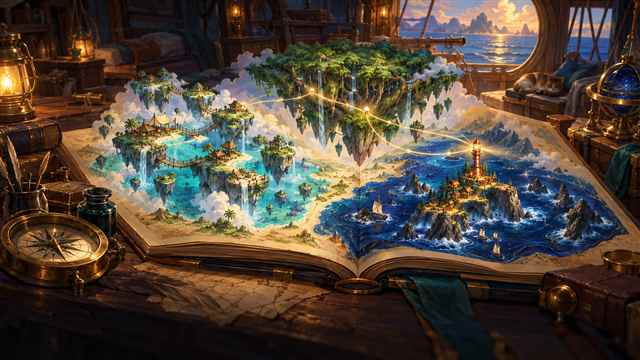
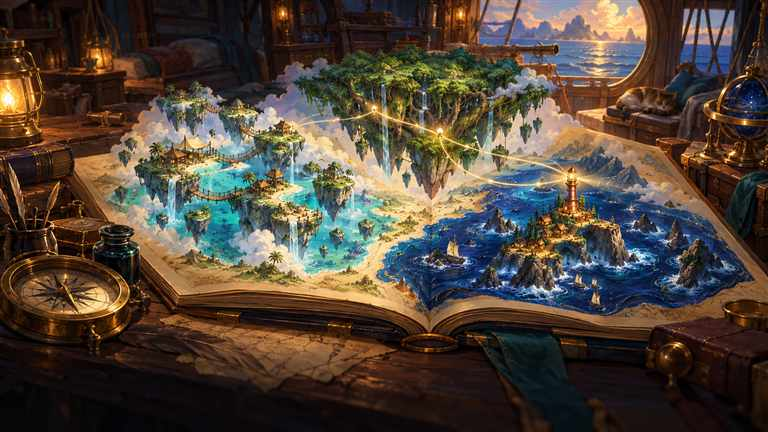
fix: tune atlas artwork and location visuals

diff --git a/src/style.css b/src/style.css
@@ -3,7 +3,7 @@
 *{box-sizing:border-box}html,body{margin:0;min-height:100%;}body{min-height:100vh;background:#173332;color:#f6ecd5}button{font:inherit;color:inherit}button:focus-visible,a:focus-visible{outline:3px solid #ffe28a;outline-offset:3px}.hidden{display:none!important}.screen{min-height:100vh}.overline{font-size:10px;line-height:1.4;letter-spacing:.2em;font-weight:800;color:#dcbd76;margin:0;text-transform:uppercase}.mobile-break{display:none}
 .brand{display:flex;align-items:center;gap:12px;color:inherit;text-decoration:none}.brand-seal{display:grid;place-items:center;width:44px;height:44px;border:1px solid #d8b765;border-radius:50%;box-shadow:inset 0 0 0 4px #d8b76535;color:#f2d88d;font-size:24px;background:#153e3a99}.brand-seal.tiny{width:32px;height:32px;font-size:16px;flex:none}.brand small,.match-title small{display:block;font-size:8px;letter-spacing:.17em;color:#d7ba72;font-weight:800;margin-bottom:4px}.brand strong{display:block;font:20px/1.02 'Marcellus',Georgia,serif;letter-spacing:.025em}.soft-button,.tiny-action{background:#1d413ecc;border:1px solid #e9d8b170;border-radius:5px;padding:9px 14px;color:#fbefd8;font-size:11px;font-weight:700;letter-spacing:.04em;cursor:pointer;box-shadow:0 2px 7px #10201b70}.soft-button:hover,.tiny-action:hover{background:#37675a;border-color:#f2d47e}.home-screen{display:flex;flex-direction:column;min-height:100vh;padding:0 clamp(20px,5vw,78px);background:linear-gradient(90deg,#102926e8 0%,#143832b8 43%,#1438327a 100%),linear-gradient(180deg,#0b1c1961,#0b1c19cc),url('../assets/atlas-board-web.jpg') center/cover fixed}.home-header{height:76px;display:flex;align-items:center;justify-content:space-between;border-bottom:1px solid #e7ce8540}.home-header-actions{display:flex;gap:10px}.home-layout{width:min(1280px,100%);margin:auto;display:grid;grid-template-columns:minmax(290px,.72fr) minmax(600px,1.28fr);gap:clamp(28px,5vw,84px);align-items:center;padding:36px 0 28px;flex:1}.welcome-panel{max-width:425px;padding:0 4px}.welcome-panel h1{font:clamp(48px,6.2vw,78px)/.99 'Marcellus',Georgia,serif;margin:19px 0 19px;text-shadow:0 5px 25px #102520a6;letter-spacing:-.025em}.welcome-panel h1 em{font-weight:400;color:#f0c873}.welcome-copy{font-size:14px;line-height:1.8;color:#f1e7d1c9;max-width:410px}.welcome-actions{display:flex;align-items:center;gap:17px;flex-wrap:wrap;margin:27px 0 37px}.gold-button{border:1px solid #ffe3a1;border-radius:5px;color:#362719;background:linear-gradient(180deg,#f6d789,#d99c4b);box-shadow:0 5px 0 #7d4e28,0 11px 24px #081c17a8;padding:14px 18px;font-size:12px;font-weight:800;cursor:pointer;text-transform:uppercase;letter-spacing:.055em}.gold-button span{margin-left:17px;font-size:16px}.gold-button:hover{filter:brightness(1.08);transform:translateY(-1px)}.gold-button:disabled{opacity:.5;cursor:not-allowed;filter:grayscale(.3);transform:none}.text-button{border:0;background:none;color:#f1dcad;font-size:11px;font-weight:700;cursor:pointer;padding:7px 0}.text-button span{color:#f4c76e;margin-left:4px}.features{display:flex;align-items:center;gap:14px;color:#e7ddc4ad;font-size:9px;letter-spacing:.08em;text-transform:uppercase}.features b{color:#f2d481;font-size:15px;letter-spacing:0;margin-right:4px}.features i{width:1px;height:19px;background:#e9d6a344}.faction-picker{padding:20px;border:1px solid #efdbab78;border-radius:11px;background:linear-gradient(150deg,#152a29d9,#293a30dd);box-shadow:0 24px 70px #0a1716a8;position:relative}.faction-picker:before,.faction-picker:after{content:'✦';position:absolute;color:#f2ce7c;opacity:.7}.faction-picker:before{top:9px;left:10px}.faction-picker:after{right:10px;bottom:9px}.section-heading{display:flex;justify-content:space-between;align-items:end;margin:1px 7px 15px}.section-heading h2{font:21px 'Marcellus',Georgia,serif;margin:4px 0 0}.counter{font-size:9px;color:#d8bd82;letter-spacing:.13em}.faction-grid{display:grid;grid-template-columns:repeat(4,minmax(0,1fr));gap:10px}.faction-card{--faction:#55b5a7;--accent:#f2c86b;padding:0;position:relative;overflow:hidden;min-width:0;min-height:190px;border:1px solid #d6c29391;border-radius:6px;background:#293732;cursor:pointer;text-align:left;transition:transform .18s,border-color .18s,box-shadow .18s}.faction-card:hover{transform:translateY(-4px);border-color:var(--accent);box-shadow:0 9px 20px #0c1916a8}.faction-card.selected{border:2px solid var(--accent);box-shadow:0 0 0 2px #f3d37b4f,0 10px 24px #101a19ab;transform:translateY(-3px)}.faction-card img{width:100%;height:113px;display:block;object-fit:cover;object-position:center 32%;filter:saturate(.87)}.faction-card:after{content:'';position:absolute;inset:63px 0 auto;height:52px;background:linear-gradient(transparent,#1e2b2b)}.faction-card-copy{position:relative;padding:7px 9px 11px;background:linear-gradient(180deg,#202d2b,#172320)}.faction-card-copy h3{font:13px/1.12 'Marcellus',Georgia,serif;margin:0 0 4px;min-height:28px;color:#fff2d8}.faction-card-copy p{font-size:9px;line-height:1.35;color:#e2d6bdad;margin:0;min-height:25px}.faction-gem{position:absolute;top:8px;right:8px;width:25px;height:25px;border-radius:50%;display:grid;place-items:center;background:var(--faction);border:1px solid #fff3a7;color:#fff8e9;font-size:14px;text-shadow:0 1px 3px #28332d}.pick-footer{margin:14px 5px 0;padding-top:11px;border-top:1px solid #e9d6a340;display:flex;justify-content:space-between;gap:8px;align-items:center;min-height:31px;color:#eee0c19e;font-size:10px}.ready-mark{color:#e5c56e;font-size:8px;letter-spacing:.15em;font-weight:800;white-space:nowrap}.home-footer{min-height:41px;border-top:1px solid #e7ce8535;display:flex;align-items:center;justify-content:space-between;gap:12px;color:#f1e3c29a;font-size:8px;letter-spacing:.14em;text-transform:uppercase}
 /* duel */
-.game-screen{height:100vh;min-height:680px;overflow:hidden;background:radial-gradient(ellipse at center,#314335,#182925)}.game-header{height:51px;padding:0 clamp(12px,3vw,42px);display:flex;align-items:center;gap:15px;background:linear-gradient(90deg,#17312a,#274b3f,#1a322b);border-bottom:1px solid #edcc786b;box-shadow:0 2px 14px #0c1710a8;position:relative;z-index:3}.home-button{width:31px;height:31px;border:1px solid #e8d19a70;background:#153d35;border-radius:50%;color:#f5d685;font-size:19px;cursor:pointer}.match-title{display:flex;align-items:center;gap:8px}.match-title small{font-size:7px;margin:0 0 2px}.match-title strong{font-size:9px;letter-spacing:.15em;color:#f4ebd6}.turn-ribbon{margin-left:auto;margin-right:2px;background:#ead9b7;color:#374039;border:2px solid #c8944f;padding:6px 14px;border-radius:4px;font-size:9px;font-weight:900;letter-spacing:.1em;box-shadow:0 2px 8px #101c18}.game-header .soft-button{padding:7px 11px;font-size:9px}.game-layout{max-width:1600px;margin:auto;height:calc(100vh - 51px);min-height:629px;display:grid;grid-template-rows:75px minmax(300px,1fr) 76px 181px 28px;gap:0;padding:0 clamp(10px,2vw,27px);position:relative}.opponent-strip,.player-controls{display:flex;align-items:center;gap:18px;padding:7px 13px;background:linear-gradient(90deg,#142822e8,#254b3bcf,#162820e8);border-left:1px solid #dbc88878;border-right:1px solid #dbc88878;position:relative;z-index:2}.opponent-strip{border-bottom:1px solid #d5c28675;border-radius:0 0 11px 11px;box-shadow:0 7px 18px #0b17156e}.player-controls{border-top:1px solid #e3cb8a7a;border-radius:11px 11px 0 0;box-shadow:0 -6px 18px #0b17156e}.hero-side{display:flex;align-items:center;gap:10px;min-width:0}.hero-portrait-wrap{width:53px;height:53px;border-radius:50%;border:2px solid #e8cc7d;box-shadow:0 0 0 3px #714e3290,0 3px 9px #101c17;overflow:hidden;position:relative;flex:none;background:#405344}.hero-portrait-wrap img{width:100%;height:100%;object-fit:cover;object-position:50% 27%}.hero-level{position:absolute;left:-2px;bottom:-2px;width:17px;height:17px;border:1px solid #f9e9b8;border-radius:50%;display:grid;place-items:center;font-size:8px;font-weight:900;background:#9b673a;color:#fff6db}.hero-name-block{display:flex;flex-direction:column;gap:2px;min-width:125px}.hero-name-block small{font-size:7px;letter-spacing:.14em;color:#efcf80;font-weight:800}.hero-name-block strong{font:14px 'Marcellus',Georgia,serif;white-space:nowrap}.hero-motto{font-size:9px;color:#e5ddc4a9;white-space:nowrap;max-width:235px;overflow:hidden;text-overflow:ellipsis}.health-medallion{width:47px;height:47px;border:3px solid #efd48a;border-radius:50%;color:#fff8e8;display:grid;align-content:center;justify-items:center;font-weight:900;font-size:21px;text-shadow:0 2px 3px #6f3025;background:radial-gradient(circle at 35% 27%,#f18a61,#a9342b 73%);box-shadow:0 0 0 2px #744428,0 3px 6px #121b17;flex:none;line-height:1;cursor:pointer}.health-medallion small{font-size:7px;letter-spacing:.11em;line-height:1.15}.player-health{background:radial-gradient(circle at 35% 25%,#85c98d,#28794d 73%);text-shadow:0 2px 3px #194d30;cursor:default}.resource-block{margin-left:auto;min-width:130px;display:flex;flex-direction:column;align-items:flex-end;gap:4px}.resource-label{font-size:7px;letter-spacing:.18em;font-weight:900;color:#e7cb7e}.resource-block>small{font-size:8px;color:#ebdfc092}.crystals{display:flex;gap:3px;min-height:10px}.crystal{width:10px;height:10px;transform:rotate(45deg);background:#284f76;border:1px solid #8caec2;box-shadow:inset 1px 1px 2px #bdeaff4a}.crystal.full{background:#38bde0;border-color:#b4f1ff;box-shadow:0 0 7px #44d2ff,inset 1px 1px 3px white}.battlefield{position:relative;display:grid;grid-template-rows:minmax(82px,.82fr) minmax(134px,1.2fr) minmax(82px,.82fr);gap:0;min-height:0;background:linear-gradient(180deg,#0e211f50,#11221d3b),url('../assets/atlas-board-web.jpg') center 48%/cover;border-left:1px solid #e9d6a37c;border-right:1px solid #e9d6a37c;box-shadow:inset 0 0 90px #14211c85;overflow:hidden}.battlefield:before{content:'';position:absolute;inset:0;background:radial-gradient(ellipse at center,#f3d48a26,transparent 56%),linear-gradient(90deg,#162b2494,transparent 15%,transparent 85%,#162b2494);pointer-events:none}.opponent-board-row,.player-board-row,.locations-row{position:relative;z-index:1;display:grid;grid-template-columns:repeat(3,minmax(0,1fr));gap:9px;padding:6px clamp(9px,2vw,28px)}.opponent-board-row{align-items:end;padding-bottom:3px}.player-board-row{align-items:start;padding-top:3px}.locations-row{align-items:center;gap:clamp(7px,1.4vw,20px);padding-top:4px;padding-bottom:4px}.lane-units{display:flex;justify-content:center;align-items:center;gap:5px;min-width:0;min-height:70px;position:relative}.unit-piece{width:clamp(70px,7vw,91px);height:77px;flex:none;position:relative;border:2px solid #e6cc8f;border-radius:8px 8px 6px 6px;box-shadow:0 4px 8px #111a13,0 0 0 1px #744a2d;overflow:visible;background:linear-gradient(180deg,#495a42,#c3a76b 75%,#6e5233);cursor:pointer;transition:transform .15s,filter .15s}.enemy-piece{border-color:#df967b;background:linear-gradient(180deg,#61443e,#b78b63 75%,#634637)}.unit-piece:hover{transform:translateY(-4px);filter:brightness(1.1);z-index:3}.unit-piece img{width:100%;height:100%;object-fit:cover;object-position:50% 26%;border-radius:6px}.unit-piece:after{content:'';position:absolute;inset:25px 0 0;border-radius:0 0 5px 5px;background:linear-gradient(transparent,#1b211bc7);pointer-events:none}.unit-title{position:absolute;bottom:19px;left:3px;right:3px;color:white;text-align:center;font-size:8px;font-weight:800;text-shadow:0 1px 4px #10150f;white-space:nowrap;overflow:hidden;text-overflow:ellipsis;z-index:1}.unit-stat{position:absolute;bottom:-7px;width:23px;height:23px;display:grid;place-items:center;border:2px solid #fff0bd;border-radius:50%;background:radial-gradient(#f3cf6e,#b87332);color:#fff8e7;font-size:12px;font-weight:900;text-shadow:0 1px 2px #412b16;box-shadow:0 2px 4px #1119;z-index:2}.unit-stat.attack{left:-6px}.unit-stat.hp{right:-6px;background:radial-gradient(#ef9b78,#a43630)}.unit-piece.selected-attacker{box-shadow:0 0 0 3px #fff49d,0 0 18px #ffd758;transform:translateY(-7px)}.unit-piece.target-valid{box-shadow:0 0 0 3px #84f1ca,0 0 15px #56f2ce;cursor:crosshair}.unit-piece.sleepy{filter:saturate(.55);opacity:.82}.keyword-badge{position:absolute;right:-4px;top:-5px;z-index:3;background:#24554c;color:#e2f6c6;border:1px solid #f6dda1;border-radius:10px;padding:2px 4px;font-size:6px;font-weight:900;letter-spacing:.04em}.location-card{--lane:#507e70;position:relative;min-width:0;height:clamp(124px,17vh,160px);overflow:hidden;border:2px solid #d9c089;border-radius:9px;background:linear-gradient(180deg,#10201c4d,#10201cd9),url('../assets/atlas-board-web.jpg') center/cover;box-shadow:0 7px 15px #0d1814c4, inset 0 0 0 2px #4336299c;cursor:pointer;transition:transform .15s,border-color .15s,box-shadow .15s}.location-card[data-lane="0"]{background-position:17% 55%}.location-card[data-lane="1"]{background-position:50% 43%}.location-card[data-lane="2"]{background-position:82% 54%}.location-card:hover{transform:translateY(-2px);border-color:#ffe899}.location-card.lane-target{border-color:#8df0c8;box-shadow:0 0 0 2px #6aebc3a8,0 0 20px #4de6c3b3}.location-content{position:absolute;inset:0;padding:10px 9px 8px;display:flex;flex-direction:column;justify-content:flex-end;background:linear-gradient(180deg,#10251a0c 2%,#10231b49 39%,#14251de8 100%)}.location-icon{position:absolute;top:7px;right:8px;width:27px;height:27px;display:grid;place-items:center;border-radius:50%;border:1px solid #f5d584;background:#162d2ac9;color:#f8d686;font-size:15px;box-shadow:0 2px 6px #1118}.location-epithet{font-size:7px;letter-spacing:.15em;text-transform:uppercase;color:#e9cc81;font-weight:800}.location-content h3{font:clamp(12px,1.28vw,17px)/1.1 'Marcellus',Georgia,serif;text-shadow:0 2px 5px #122019;margin:3px 0 4px}.location-rule{font-size:clamp(7px,.72vw,9px);line-height:1.34;color:#fff5dfdb;text-shadow:0 1px 4px #101610;max-width:290px}.location-scores{display:flex;justify-content:center;gap:14px;position:absolute;left:0;right:0;top:7px}.score-pill{border-radius:12px;padding:3px 8px;background:#192b25df;border:1px solid #e5cd8a8c;font-size:8px;font-weight:900;color:#f4e8c7;box-shadow:0 1px 4px #0c1815}.score-pill.enemy-score{border-color:#e2a08c99}.target-hint{position:absolute;inset:0;display:none;place-items:center;background:#133c345d;font-size:9px;letter-spacing:.1em;font-weight:900;color:#e0f6cb;text-shadow:0 2px 3px #17342c;z-index:2}.location-card.lane-target .target-hint{display:grid}.battle-caption{position:absolute;left:50%;top:50%;transform:translate(-50%,-50%);z-index:0;border-radius:30px;padding:4px 14px;background:#14272176;border:1px solid #f3deab4a;color:#fff0d0b2;font-size:7px;letter-spacing:.18em;white-space:nowrap;pointer-events:none}.empty-lane{align-self:center;justify-self:center;border:1px dashed #f2dfaa63;border-radius:20px;padding:4px 9px;color:#fff2d28f;font-size:7px;letter-spacing:.1em;text-transform:uppercase}
+.game-screen{height:100vh;min-height:680px;overflow:hidden;background:radial-gradient(ellipse at center,#314335,#182925)}.game-header{height:51px;padding:0 clamp(12px,3vw,42px);display:flex;align-items:center;gap:15px;background:linear-gradient(90deg,#17312a,#274b3f,#1a322b);border-bottom:1px solid #edcc786b;box-shadow:0 2px 14px #0c1710a8;position:relative;z-index:3}.home-button{width:31px;height:31px;border:1px solid #e8d19a70;background:#153d35;border-radius:50%;color:#f5d685;font-size:19px;cursor:pointer}.match-title{display:flex;align-items:center;gap:8px}.match-title small{font-size:7px;margin:0 0 2px}.match-title strong{font-size:9px;letter-spacing:.15em;color:#f4ebd6}.turn-ribbon{margin-left:auto;margin-right:2px;background:#ead9b7;color:#374039;border:2px solid #c8944f;padding:6px 14px;border-radius:4px;font-size:9px;font-weight:900;letter-spacing:.1em;box-shadow:0 2px 8px #101c18}.game-header .soft-button{padding:7px 11px;font-size:9px}.game-layout{max-width:1600px;margin:auto;height:calc(100vh - 51px);min-height:629px;display:grid;grid-template-rows:75px minmax(300px,1fr) 76px 181px 28px;gap:0;padding:0 clamp(10px,2vw,27px);position:relative}.opponent-strip,.player-controls{display:flex;align-items:center;gap:18px;padding:7px 13px;background:linear-gradient(90deg,#142822e8,#254b3bcf,#162820e8);border-left:1px solid #dbc88878;border-right:1px solid #dbc88878;position:relative;z-index:2}.opponent-strip{border-bottom:1px solid #d5c28675;border-radius:0 0 11px 11px;box-shadow:0 7px 18px #0b17156e}.player-controls{border-top:1px solid #e3cb8a7a;border-radius:11px 11px 0 0;box-shadow:0 -6px 18px #0b17156e}.hero-side{display:flex;align-items:center;gap:10px;min-width:0}.hero-portrait-wrap{width:53px;height:53px;border-radius:50%;border:2px solid #e8cc7d;box-shadow:0 0 0 3px #714e3290,0 3px 9px #101c17;overflow:hidden;position:relative;flex:none;background:#405344}.hero-portrait-wrap img{width:100%;height:100%;object-fit:cover;object-position:50% 27%}.hero-level{position:absolute;left:-2px;bottom:-2px;width:17px;height:17px;border:1px solid #f9e9b8;border-radius:50%;display:grid;place-items:center;font-size:8px;font-weight:900;background:#9b673a;color:#fff6db}.hero-name-block{display:flex;flex-direction:column;gap:2px;min-width:125px}.hero-name-block small{font-size:7px;letter-spacing:.14em;color:#efcf80;font-weight:800}.hero-name-block strong{font:14px 'Marcellus',Georgia,serif;white-space:nowrap}.hero-motto{font-size:9px;color:#e5ddc4a9;white-space:nowrap;max-width:235px;overflow:hidden;text-overflow:ellipsis}.health-medallion{width:47px;height:47px;border:3px solid #efd48a;border-radius:50%;color:#fff8e8;display:grid;align-content:center;justify-items:center;font-weight:900;font-size:21px;text-shadow:0 2px 3px #6f3025;background:radial-gradient(circle at 35% 27%,#f18a61,#a9342b 73%);box-shadow:0 0 0 2px #744428,0 3px 6px #121b17;flex:none;line-height:1;cursor:pointer}.health-medallion small{font-size:7px;letter-spacing:.11em;line-height:1.15}.player-health{background:radial-gradient(circle at 35% 25%,#85c98d,#28794d 73%);text-shadow:0 2px 3px #194d30;cursor:default}.resource-block{margin-left:auto;min-width:130px;display:flex;flex-direction:column;align-items:flex-end;gap:4px}.resource-label{font-size:7px;letter-spacing:.18em;font-weight:900;color:#e7cb7e}.resource-block>small{font-size:8px;color:#ebdfc092}.crystals{display:flex;gap:3px;min-height:10px}.crystal{width:10px;height:10px;transform:rotate(45deg);background:#284f76;border:1px solid #8caec2;box-shadow:inset 1px 1px 2px #bdeaff4a}.crystal.full{background:#38bde0;border-color:#b4f1ff;box-shadow:0 0 7px #44d2ff,inset 1px 1px 3px white}.battlefield{position:relative;display:grid;grid-template-rows:minmax(82px,.82fr) minmax(134px,1.2fr) minmax(82px,.82fr);gap:0;min-height:0;background:linear-gradient(180deg,#0e211f50,#11221d3b),url('../assets/atlas-board-web.jpg') center 48%/cover;border-left:1px solid #e9d6a37c;border-right:1px solid #e9d6a37c;box-shadow:inset 0 0 90px #14211c85;overflow:hidden}.battlefield:before{content:'';position:absolute;inset:0;background:radial-gradient(ellipse at center,#f3d48a26,transparent 56%),linear-gradient(90deg,#162b2494,transparent 15%,transparent 85%,#162b2494);pointer-events:none}.opponent-board-row,.player-board-row,.locations-row{position:relative;z-index:1;display:grid;grid-template-columns:repeat(3,minmax(0,1fr));gap:9px;padding:6px clamp(9px,2vw,28px)}.opponent-board-row{align-items:end;padding-bottom:3px}.player-board-row{align-items:start;padding-top:3px}.locations-row{align-items:center;gap:clamp(7px,1.4vw,20px);padding-top:4px;padding-bottom:4px}.lane-units{display:flex;justify-content:center;align-items:center;gap:5px;min-width:0;min-height:70px;position:relative}.unit-piece{width:clamp(70px,7vw,91px);height:77px;flex:none;position:relative;border:2px solid #e6cc8f;border-radius:8px 8px 6px 6px;box-shadow:0 4px 8px #111a13,0 0 0 1px #744a2d;overflow:visible;background:linear-gradient(180deg,#495a42,#c3a76b 75%,#6e5233);cursor:pointer;transition:transform .15s,filter .15s}.enemy-piece{border-color:#df967b;background:linear-gradient(180deg,#61443e,#b78b63 75%,#634637)}.unit-piece:hover{transform:translateY(-4px);filter:brightness(1.1);z-index:3}.unit-piece img{width:100%;height:100%;object-fit:cover;object-position:50% 26%;border-radius:6px}.unit-piece:after{content:'';position:absolute;inset:25px 0 0;border-radius:0 0 5px 5px;background:linear-gradient(transparent,#1b211bc7);pointer-events:none}.unit-title{position:absolute;bottom:19px;left:3px;right:3px;color:white;text-align:center;font-size:8px;font-weight:800;text-shadow:0 1px 4px #10150f;white-space:nowrap;overflow:hidden;text-overflow:ellipsis;z-index:1}.unit-stat{position:absolute;bottom:-7px;width:23px;height:23px;display:grid;place-items:center;border:2px solid #fff0bd;border-radius:50%;background:radial-gradient(#f3cf6e,#b87332);color:#fff8e7;font-size:12px;font-weight:900;text-shadow:0 1px 2px #412b16;box-shadow:0 2px 4px #1119;z-index:2}.unit-stat.attack{left:-6px}.unit-stat.hp{right:-6px;background:radial-gradient(#ef9b78,#a43630)}.unit-piece.selected-attacker{box-shadow:0 0 0 3px #fff49d,0 0 18px #ffd758;transform:translateY(-7px)}.unit-piece.target-valid{box-shadow:0 0 0 3px #84f1ca,0 0 15px #56f2ce;cursor:crosshair}.unit-piece.sleepy{filter:saturate(.55);opacity:.82}.keyword-badge{position:absolute;right:-4px;top:-5px;z-index:3;background:#24554c;color:#e2f6c6;border:1px solid #f6dda1;border-radius:10px;padding:2px 4px;font-size:6px;font-weight:900;letter-spacing:.04em}.location-card{--lane:#507e70;position:relative;min-width:0;height:clamp(124px,17vh,160px);overflow:hidden;border:2px solid #d9c089;border-radius:9px;background:linear-gradient(180deg,#10201c4d,#10201cd9),url('../assets/atlas-board-web.jpg') center/cover;box-shadow:0 7px 15px #0d1814c4, inset 0 0 0 2px #4336299c;cursor:pointer;transition:transform .15s,border-color .15s,box-shadow .15s}.location-card[data-location="0"]{background-position:17% 55%}.location-card[data-location="1"]{background-position:50% 43%}.location-card[data-location="2"]{background-position:82% 54%}.location-card:hover{transform:translateY(-2px);border-color:#ffe899}.location-card.lane-target{border-color:#8df0c8;box-shadow:0 0 0 2px #6aebc3a8,0 0 20px #4de6c3b3}.location-content{position:absolute;inset:0;padding:10px 9px 8px;display:flex;flex-direction:column;justify-content:flex-end;background:linear-gradient(180deg,#10251a0c 2%,#10231b49 39%,#14251de8 100%)}.location-icon{position:absolute;top:7px;right:8px;width:27px;height:27px;display:grid;place-items:center;border-radius:50%;border:1px solid #f5d584;background:#162d2ac9;color:#f8d686;font-size:15px;box-shadow:0 2px 6px #1118}.location-epithet{font-size:7px;letter-spacing:.15em;text-transform:uppercase;color:#e9cc81;font-weight:800}.location-content h3{font:clamp(12px,1.28vw,17px)/1.1 'Marcellus',Georgia,serif;text-shadow:0 2px 5px #122019;margin:3px 0 4px}.location-rule{font-size:clamp(7px,.72vw,9px);line-height:1.34;color:#fff5dfdb;text-shadow:0 1px 4px #101610;max-width:290px}.location-scores{display:flex;justify-content:center;gap:14px;position:absolute;left:0;right:0;top:7px}.score-pill{border-radius:12px;padding:3px 8px;background:#192b25df;border:1px solid #e5cd8a8c;font-size:8px;font-weight:900;color:#f4e8c7;box-shadow:0 1px 4px #0c1815}.score-pill.enemy-score{border-color:#e2a08c99}.target-hint{position:absolute;inset:0;display:none;place-items:center;background:#133c345d;font-size:9px;letter-spacing:.1em;font-weight:900;color:#e0f6cb;text-shadow:0 2px 3px #17342c;z-index:2}.location-card.lane-target .target-hint{display:grid}.battle-caption{position:absolute;left:50%;top:50%;transform:translate(-50%,-50%);z-index:0;border-radius:30px;padding:4px 14px;background:#14272176;border:1px solid #f3deab4a;color:#fff0d0b2;font-size:7px;letter-spacing:.18em;white-space:nowrap;pointer-events:none}.empty-lane{align-self:center;justify-self:center;border:1px dashed #f2dfaa63;border-radius:20px;padding:4px 9px;color:#fff2d28f;font-size:7px;letter-spacing:.1em;text-transform:uppercase}
 .power-button{height:48px;min-width:170px;display:flex;align-items:center;gap:8px;padding:4px 9px;background:linear-gradient(180deg,#386353,#1b4136);border:1px solid #e6c97d;border-radius:6px;box-shadow:0 2px 7px #1119;cursor:pointer;text-align:left}.power-button:hover:not(:disabled){filter:brightness(1.13);box-shadow:0 0 11px #f2d67c65}.power-button:disabled{opacity:.5;cursor:not-allowed}.power-icon{display:grid;place-items:center;border:2px solid #edda9d;border-radius:50%;width:33px;height:33px;background:radial-gradient(#91d5ca,#23635d);font-size:18px;flex:none}.power-button small{display:block;font-size:7px;color:#ecd995;font-weight:900;letter-spacing:.12em}.power-button strong{display:block;font-size:10px;margin-top:3px;white-space:nowrap}.turn-button{height:49px;min-width:102px;margin-left:auto;border:2px solid #ffe4a7;border-radius:6px;background:linear-gradient(180deg,#e4a751,#a96634);box-shadow:0 3px 0 #613a24,0 5px 10px #122019a8;display:flex;align-items:center;justify-content:center;gap:8px;color:#fff7dc;text-shadow:0 1px 3px #4d2c20;cursor:pointer;font-weight:900;font-size:10px;line-height:1.2;text-transform:uppercase;letter-spacing:.06em}.turn-button b{font-size:18px}.turn-button:hover{filter:brightness(1.12);transform:translateY(-1px)}.turn-button:disabled{filter:grayscale(.8);opacity:.57;cursor:not-allowed;transform:none}
 .hand-area{position:relative;z-index:2;padding:6px 12px 0;background:linear-gradient(180deg,#243a30e5,#142720);border:1px solid #cfb97b82;border-top:0;box-shadow:0 -6px 17px #0d17157d}.hand-heading{height:32px;display:flex;justify-content:space-between;align-items:center;gap:8px}.hand-heading .overline{font-size:8px}.action-hint{margin:2px 0 0;font-size:8px;color:#ecdfc49d}.hand-actions{display:flex;align-items:center;gap:9px}.tiny-action{font-size:7px;padding:5px 8px;letter-spacing:.08em}.deck-stack{color:#ddb964;font-size:21px}.hand-row{height:136px;display:flex;align-items:flex-end;justify-content:center;gap:5px;overflow-x:auto;overflow-y:hidden;padding:2px 8px 5px;scrollbar-width:thin;scrollbar-color:#b48649 #1b2c25}.game-card{--faction:#55b5a7;--accent:#f2c86b;flex:0 0 112px;width:112px;height:128px;position:relative;display:flex;flex-direction:column;overflow:hidden;border:2px solid #e5c67c;border-radius:8px 8px 6px 6px;color:#29302a;background:linear-gradient(165deg,#f7e8c6,#d7bd88);box-shadow:0 3px 5px #0d160faa;cursor:pointer;transition:transform .15s,filter .15s,box-shadow .15s}.game-card:hover:not(:disabled){transform:translateY(-13px) scale(1.035);z-index:3;filter:brightness(1.07);box-shadow:0 8px 20px #07130ecc}.game-card.selected{transform:translateY(-12px);z-index:3;box-shadow:0 0 0 3px #fff29e,0 0 17px #f9d667}.game-card:disabled{cursor:not-allowed;filter:grayscale(.35) brightness(.7);opacity:.78}.game-card.affordable{border-color:var(--accent)}.game-card.spell{background:linear-gradient(155deg,#d9e9dc,#80a99d);border-color:#a4d9cb}.card-art{position:relative;flex:none;height:48px;overflow:hidden;border-bottom:2px solid #be8b4a;background:linear-gradient(180deg,#0000,#15231eb0),var(--card-image) center 27%/cover}.card-art:after{content:'';position:absolute;inset:0;background:linear-gradient(135deg,#fff6 0,transparent 27%,transparent 73%,#10251b45)}.card-cost{position:absolute;top:3px;left:3px;z-index:1;width:23px;height:23px;display:grid;place-items:center;border:2px solid #ffe6a4;border-radius:50%;color:#fff7e7;font-weight:900;font-size:12px;background:radial-gradient(#55d8ee,#2670a2 75%);text-shadow:0 1px 2px #174058;box-shadow:0 2px 4px #16251f77}.card-ribbon{position:absolute;top:5px;right:3px;z-index:1;padding:3px 5px;border-radius:2px;background:#304a3ada;color:#fff5d9;font-size:6px;font-weight:900;letter-spacing:.1em;text-transform:uppercase}.game-card.spell .card-ribbon{background:#405c85}.card-name{height:22px;display:grid;place-items:center;margin:-4px 4px 0;position:relative;z-index:1;padding:2px 3px;border:1px solid #e7d39f;border-radius:6px;background:linear-gradient(#fff0ca,#d6b779);box-shadow:0 2px 3px #6e542e5c;text-align:center;font:9px/1.05 'Marcellus',Georgia,serif;color:#302d25}.card-text{padding:5px 5px 1px;flex:1;text-align:center;font-size:7px;line-height:1.22;color:#3c3a31;overflow:hidden}.card-bottom{height:19px;margin-top:auto;display:flex;justify-content:space-between;align-items:center;padding:0 4px;background:linear-gradient(90deg,#674627,#c4944e 50%,#674627);color:#fff2d4;font-size:6px;font-weight:900;letter-spacing:.1em;text-transform:uppercase}.card-stat{position:absolute;bottom:9px;width:24px;height:24px;display:grid;place-items:center;border:2px solid #f5dfa3;border-radius:50%;background:radial-gradient(#f6d978,#b96b2d);color:#fff9e8;font-size:12px;font-weight:900;text-shadow:0 1px 2px #542c1c;box-shadow:0 2px 3px #182019}.card-stat.attack{left:-3px}.card-stat.health{right:-3px;background:radial-gradient(#e99573,#9f332b)}.game-log{display:flex;align-items:center;gap:7px;padding:3px 6px;color:#efe4c59c;font-size:8px}.log-star{color:#efcf7d}
 /* overlays, grimoire, lore, end of match */
